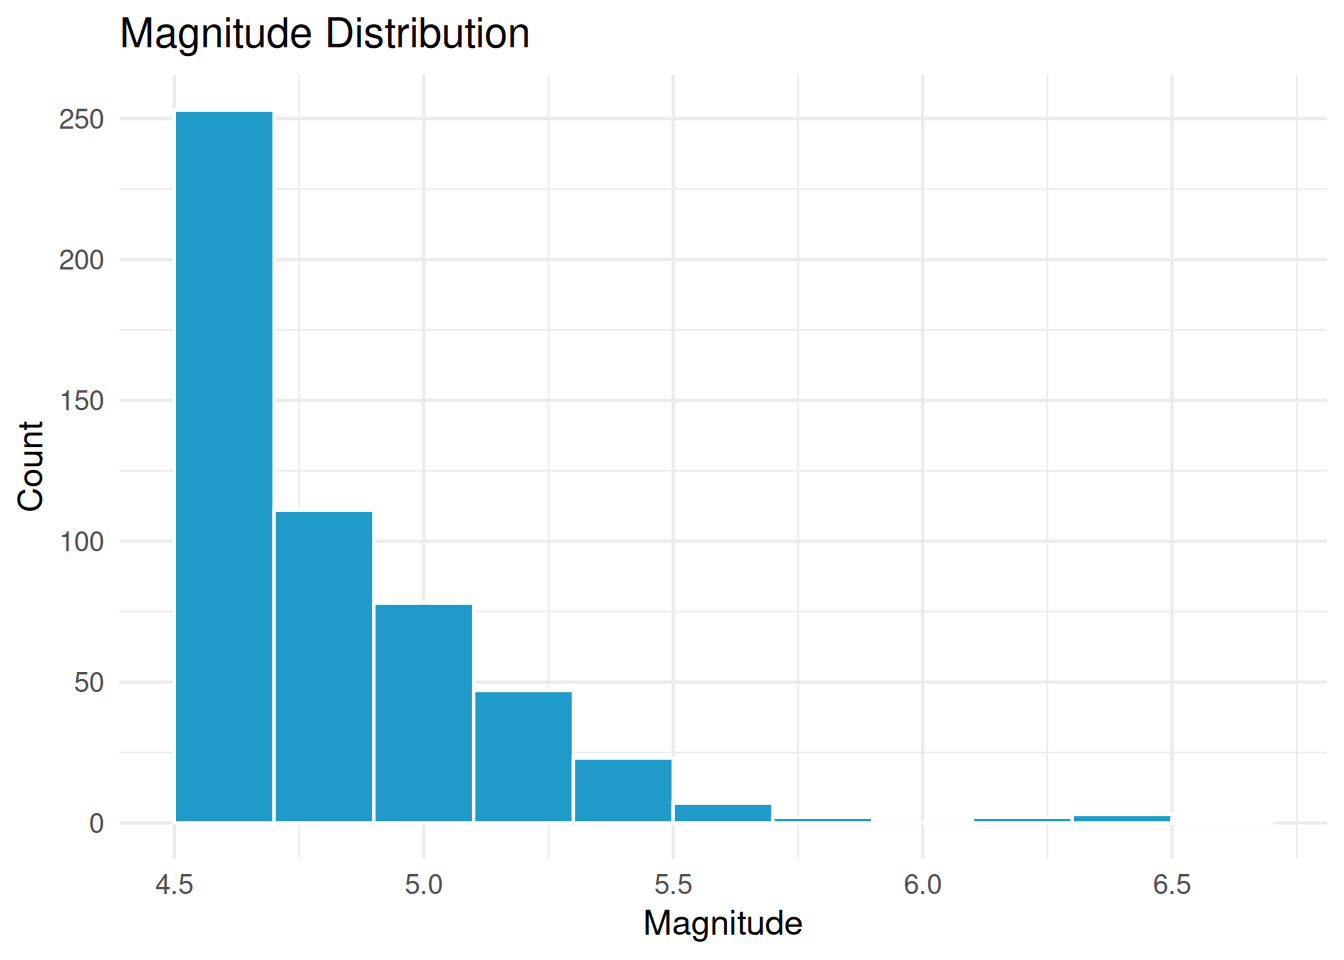
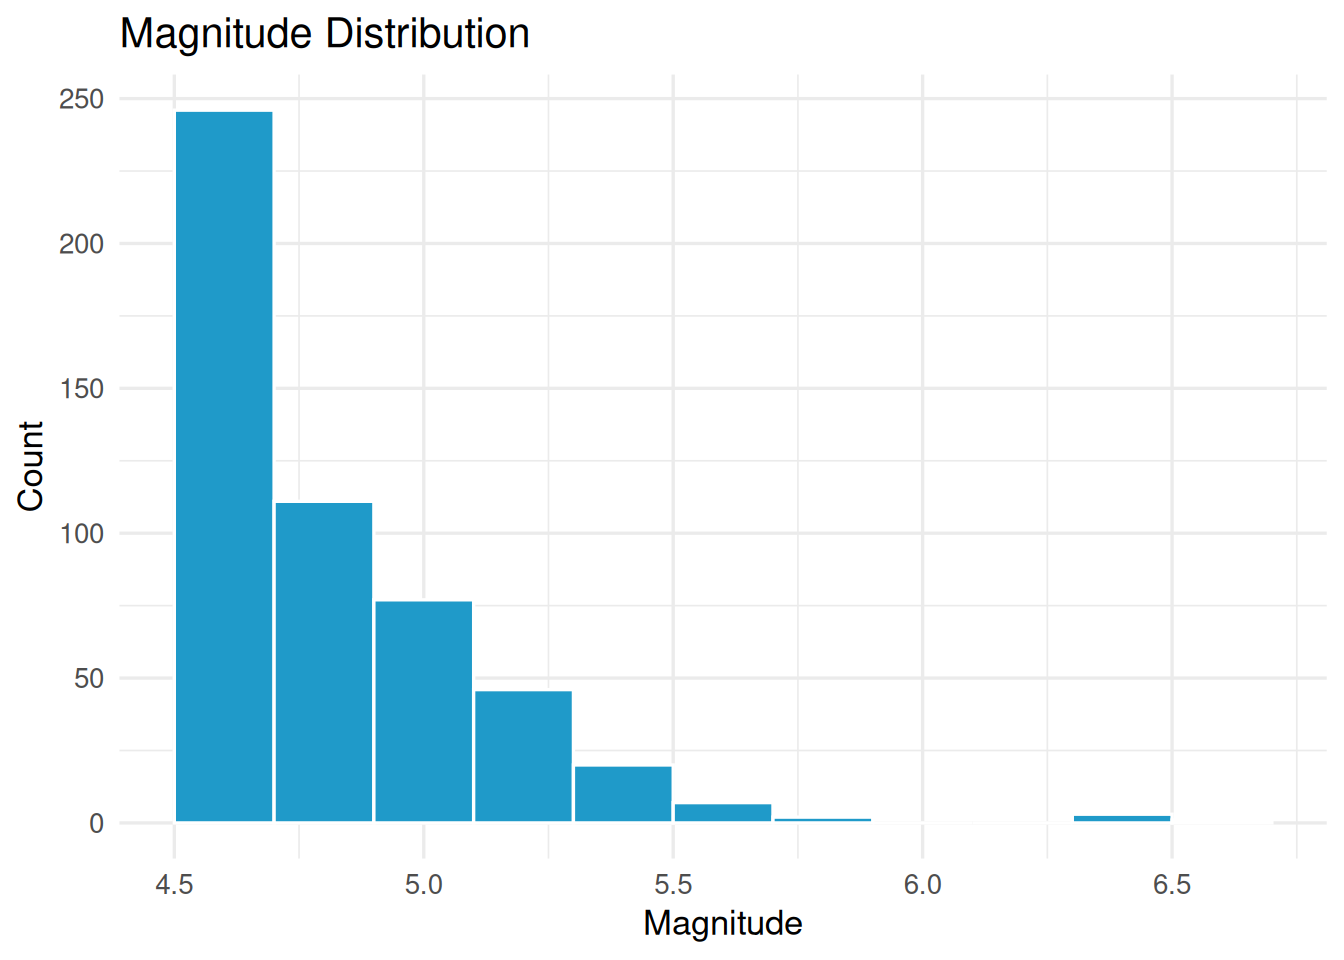
Built site for gh-pages

diff --git a/report.html b/report.html
@@ -195,7 +195,7 @@ pre > code.sourceCode > span > a:first-child::before { text-decoration: underlin
 </div>
 <section id="summary" class="level2">
 <h2 class="anchored" data-anchor-id="summary">Summary</h2>
-<p>In the past 30 days, USGS recorded 527 earthquakes of magnitude 4.5 or greater worldwide. The strongest was a magnitude 6.6 event near 80 km ENE of Tadine, New Caledonia on September 25, 2026. The median magnitude was 4.8, and 6 earthquakes reached magnitude 6.0 or higher.</p>
+<p>In the past 30 days, USGS recorded 513 earthquakes of magnitude 4.5 or greater worldwide. The strongest was a magnitude 6.6 event near 80 km ENE of Tadine, New Caledonia on September 25, 2026. The median magnitude was 4.8, and 4 earthquakes reached magnitude 6.0 or higher.</p>
 </section>
 <section id="strongest-earthquakes" class="level2">
 <h2 class="anchored" data-anchor-id="strongest-earthquakes">Strongest Earthquakes</h2>
@@ -243,18 +243,6 @@ pre > code.sourceCode > span > a:first-child::before { text-decoration: underlin
 <td style="text-align: right;">6.4</td>
 <td style="text-align: left;">104 km</td>
 <td style="text-align: left;">49 km NNE of Kainantu, Papua New Guinea</td>
-</tr>
-<tr class="odd">
-<td style="text-align: left;">Sep 03</td>
-<td style="text-align: right;">6.3</td>
-<td style="text-align: left;">21 km</td>
-<td style="text-align: left;">89 km SSW of Nikolski, Alaska</td>
-</tr>
-<tr class="even">
-<td style="text-align: left;">Sep 02</td>
-<td style="text-align: right;">6.2</td>
-<td style="text-align: left;">111 km</td>
-<td style="text-align: left;">South Sandwich Islands region</td>
 </tr>
 <tr class="odd">
 <td style="text-align: left;">Sep 11</td>
@@ -412,43 +400,43 @@ pre > code.sourceCode > span > a:first-child::before { text-decoration: underlin
 <tbody>
 <tr class="odd">
 <td style="text-align: left;">Indonesia</td>
-<td style="text-align: right;">68</td>
+<td style="text-align: right;">67</td>
 </tr>
 <tr class="even">
 <td style="text-align: left;">New Caledonia</td>
-<td style="text-align: right;">37</td>
+<td style="text-align: right;">39</td>
 </tr>
 <tr class="odd">
 <td style="text-align: left;">Japan</td>
-<td style="text-align: right;">26</td>
+<td style="text-align: right;">29</td>
 </tr>
 <tr class="even">
 <td style="text-align: left;">Colombia</td>
-<td style="text-align: right;">25</td>
+<td style="text-align: right;">24</td>
 </tr>
 <tr class="odd">
 <td style="text-align: left;">Papua New Guinea</td>
 <td style="text-align: right;">23</td>
 </tr>
 <tr class="even">
-<td style="text-align: left;">Philippines</td>
-<td style="text-align: right;">21</td>
+<td style="text-align: left;">Russia</td>
+<td style="text-align: right;">22</td>
 </tr>
 <tr class="odd">
-<td style="text-align: left;">Alaska</td>
-<td style="text-align: right;">20</td>
+<td style="text-align: left;">Philippines</td>
+<td style="text-align: right;">19</td>
 </tr>
 <tr class="even">
 <td style="text-align: left;">Vanuatu</td>
-<td style="text-align: right;">20</td>
+<td style="text-align: right;">18</td>
 </tr>
 <tr class="odd">
 <td style="text-align: left;">China</td>
-<td style="text-align: right;">18</td>
+<td style="text-align: right;">17</td>
 </tr>
 <tr class="even">
 <td style="text-align: left;">South Sandwich Islands region</td>
-<td style="text-align: right;">18</td>
+<td style="text-align: right;">15</td>
 </tr>
 </tbody>
 </table>
